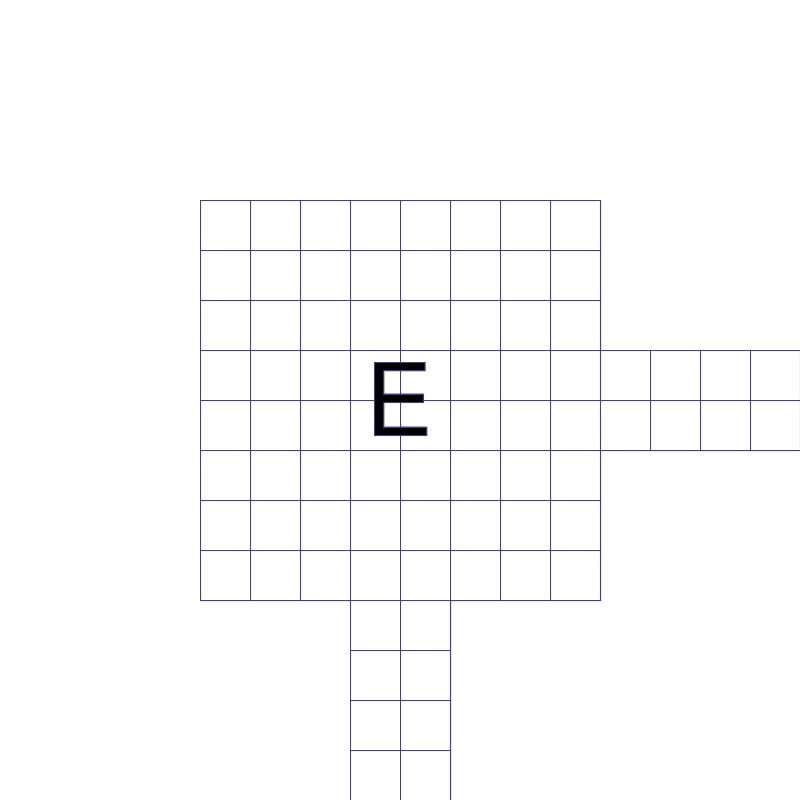
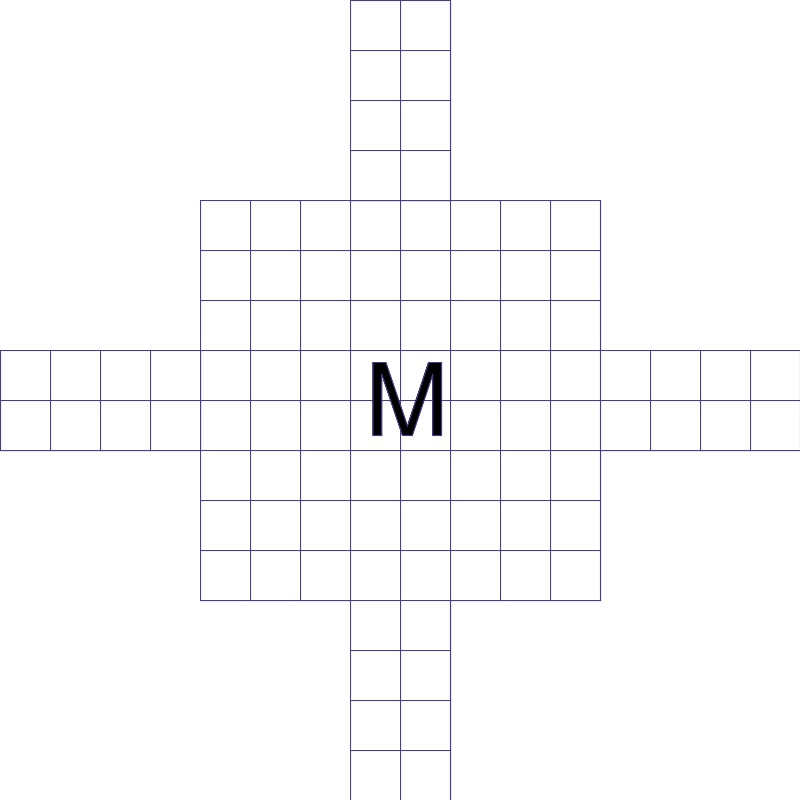
Dungeon walkable.

Changed region(s): [[0.4375, 0.4375, 0.5625, 0.5625]]

diff --git a/app/controllers/dungeon_instances_controller.rb b/app/controllers/dungeon_instances_controller.rb
@@ -12,9 +12,8 @@ class DungeonInstancesController < ApplicationController
   # GET /dungeon_instances/1
   # GET /dungeon_instances/1.json
   def show
-    dungeon = Dungeon.from_json( @dungeon_instance.dungeon_data )
-    dungeon.draw_current_room( 'app/assets/images/current_room.jpg' )
-    @directions = dungeon.available_directions
+    @dungeon.draw_current_room( 'app/assets/images/current_room.jpg' )
+    @directions = @dungeon.available_directions
   end
 
   # GET /dungeon_instances/new
@@ -50,14 +49,9 @@ class DungeonInstancesController < ApplicationController
   # PATCH/PUT /dungeon_instances/1
   # PATCH/PUT /dungeon_instances/1.json
   def update
-    respond_to do |format|
-      if @dungeon_instance.update(dungeon_instance_params)
-        format.html { redirect_to @dungeon_instance, notice: 'Dungeon instance was successfully updated.' }
-        format.json { render :show, status: :ok, location: @dungeon_instance }
-      else
-        format.html { render :edit }
-        format.json { render json: @dungeon_instance.errors, status: :unprocessable_entity }
-      end
+    @dungeon.set_next_room( params[:direction].to_sym)
+    if @dungeon_instance.update(dungeon_data: @dungeon.to_json)
+      redirect_to @dungeon_instance
     end
   end
 
@@ -75,6 +69,7 @@ class DungeonInstancesController < ApplicationController
     # Use callbacks to share common setup or constraints between actions.
     def set_dungeon_instance
       @dungeon_instance = DungeonInstance.find(params[:id])
+      @dungeon = Dungeon.from_json( @dungeon_instance.dungeon_data )
     end
 
     # Never trust parameters from the scary internet, only allow the white list through.
